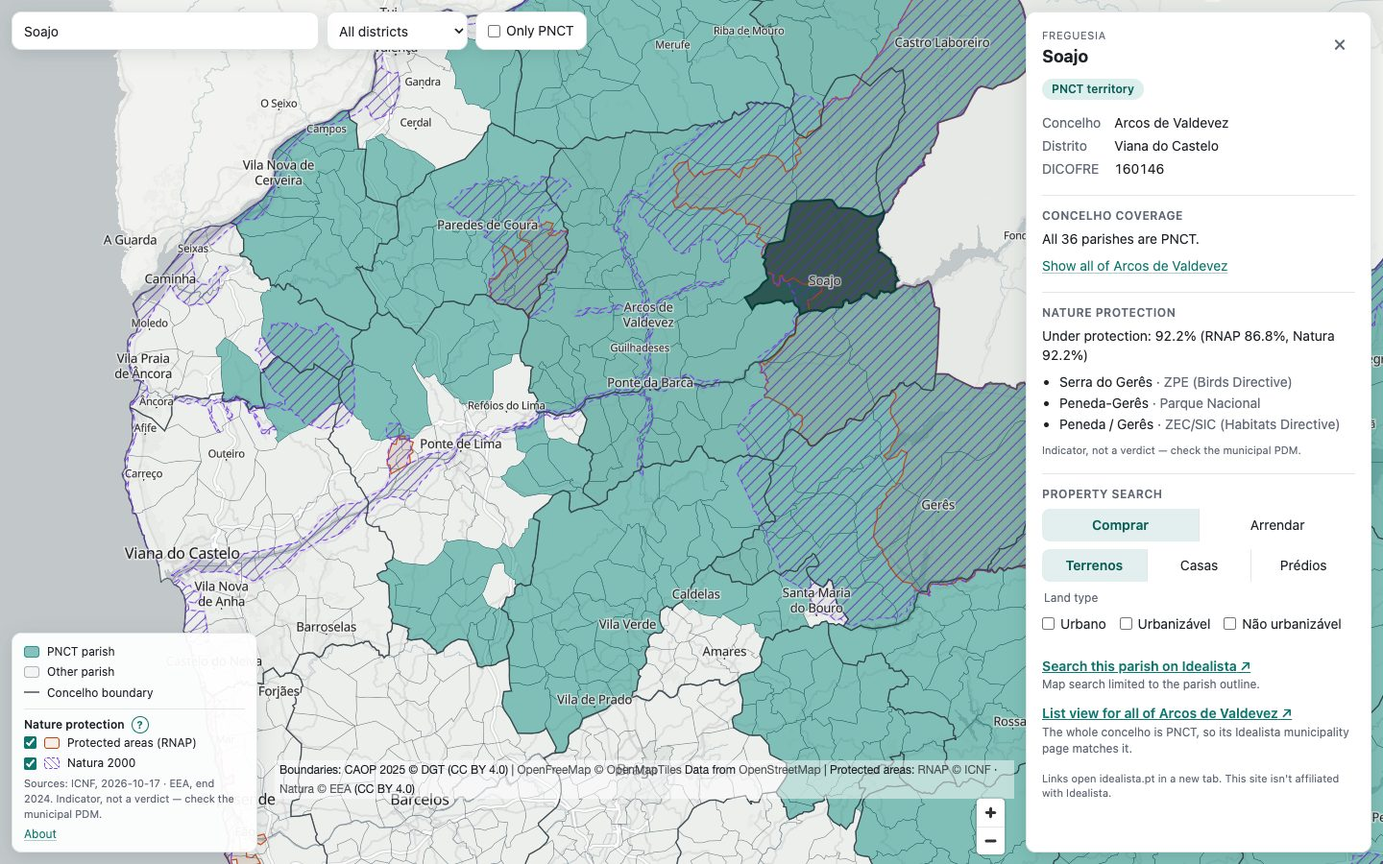
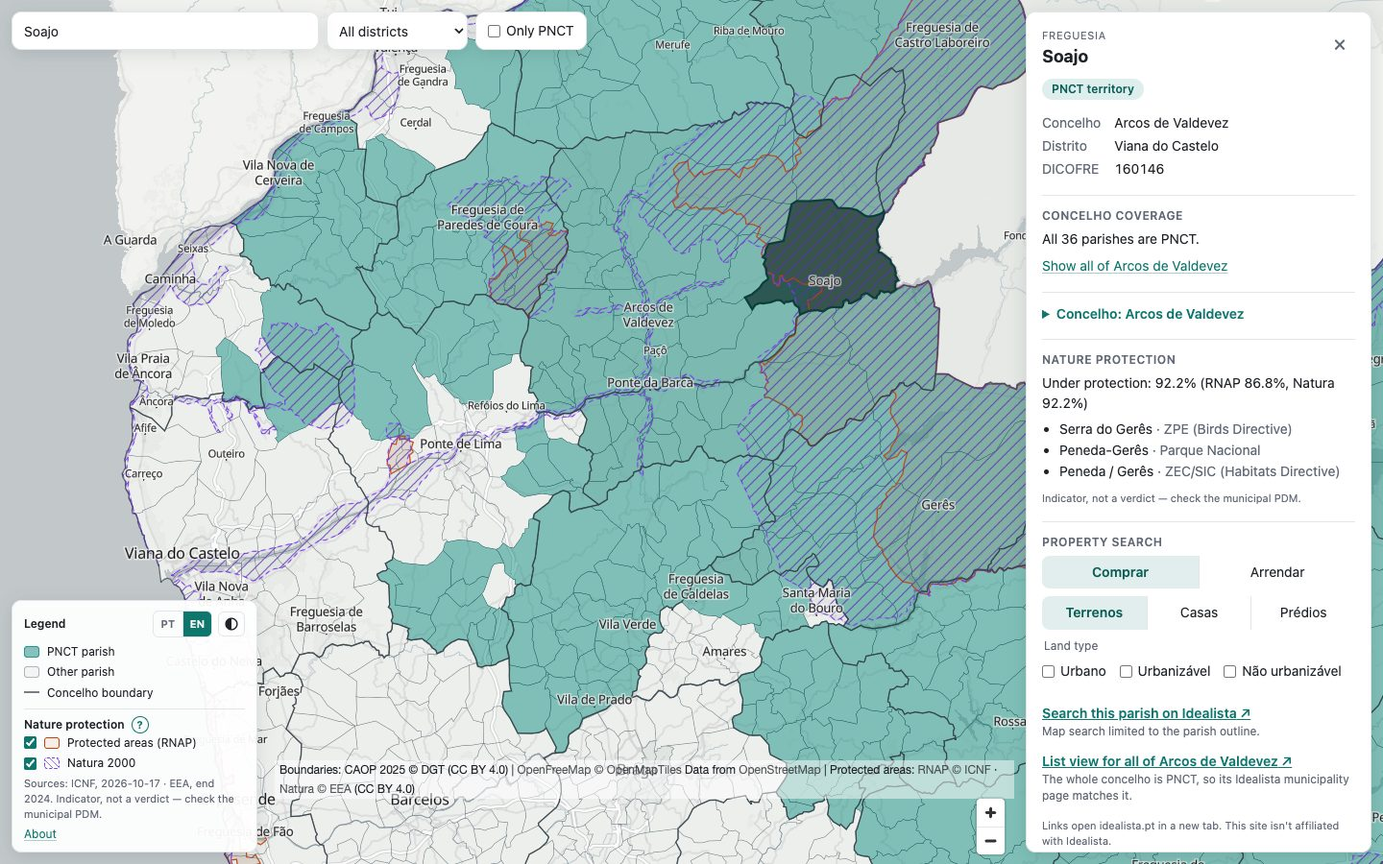
docs: conventions from 0.5.0–0.6.0, i18n glossary, README and attribution refresh
CLAUDE.md gains the UI-text, boot-script hash, iOS Safari, contacts and
no-invented-values rules and an up-to-date layout. The 0.6.0 glossary moves to
docs/i18n-glossary.md. README covers the concelho card and its make targets,
with a regenerated screenshot. data/ATTRIBUTION.md matches where credits appear.

diff --git a/README.md b/README.md
@@ -14,12 +14,13 @@ Features:
   - A district filter.
   - **Only PNCT** (focus mode): it hides everything outside PNCT territory, and those parishes don't respond to hover, clicks or search.
 - **Idealista links:** for each PNCT parish, a polygon search link, with a selector for buying or renting, property type and land filters. When the whole concelho is PNCT, the municipality page is linked too.
+- **Concelho card:** every concelho panel shows its population (INE 2025 estimate, the Census 2011→2021 change, density, the ageing ratio) and, for the 185 PNCT concelhos, the câmara's website, mailbox, phone, urbanism page and PDM link. Parish panels have the same card in a collapsed section. A missing value shows "—" with a note, never an estimate.
 - **Nature protection:** RNAP (ICNF) and Natura 2000 (EEA) overlays, faded in once zoomed past the country view, and the share of each parish or concelho under protection in its panel. A "?" next to the legend heading explains what protection means for buying land.
 - **Português / English:** a PT | EN toggle in the legend header switches every UI string in place, and the basemap labels where OpenStreetMap has a name in that language. Parish and concelho names stay as they are. On first visit the language follows `?lang=`, then the saved choice, then the browser languages (any `pt*` → PT), then English.
 - **Light, dark or automatic theme:** a theme button next to the language toggle cycles Auto (follows the system, live) → Light → Dark. The page and the basemap start in the chosen theme, with no flash.
 - **Shareable views:** the map view, the selection, the filters and the selector all live in the URL (see [URL parameters](#url-parameters)).
 
-![Peneda-Gerês with the protected-areas overlays on: PNCT parishes shaded, the RNAP outline and the Natura 2000 hatch, and the Soajo parish panel with its share under protection](docs/screenshots/desktop-protected.jpg)
+![Peneda-Gerês with the protected-areas overlays on: PNCT parishes shaded, the RNAP outline and the Natura 2000 hatch, the Soajo parish panel with its share under protection, and the PT | EN and theme controls in the legend header](docs/screenshots/desktop-protected.jpg)
 
 The screenshot is generated with `npm run shots:readme` (in `web/`, with `npm run preview` running).
 
@@ -63,7 +64,7 @@ Only needed to rebuild the data from the sources.
 
 ```sh
 uv sync
-uv run make all      # download (checksum-verified) → parse → match → geo → topo → shapes → outline → protected → pytest
+uv run make all      # download (checksum-verified) → parse → match → geo → topo → shapes → outline → protected → concelhos → pytest
 ```
 
 `make download` fetches two sources. Each download is checked against a SHA-256 before it is kept:
@@ -76,6 +77,8 @@ Git ignores both downloads. `make all` runs the download as a dependency, so you
 The protected-areas step also downloads, once, into `data/external/protected/` (gitignored):
 - the ICNF RNAP layer, paged from the ArcGIS service (~7 MB);
 - the EEA Natura 2000 end-2024 GeoPackage (1.36 GB, EU-wide, SHA-256 pinned).
+
+The concelho step fetches the INE indicators once into `data/external/ine/` (gitignored). `make concelhos-fetch` re-fetches them (`REFRESH=1` replaces the cache, e.g. for next year's estimates). The câmara contacts are curated by hand in `data/contacts/camaras.csv`; `make concelhos` stops on a row that fails `scripts/validate_contacts.py`.
 
 `make protected-fetch` re-fetches them on demand (`REFRESH=1` downloads the GeoPackage again); `cd web && npm run data:protected` does the same plus the rebuild. Which source feeds which category is set in `scripts/protected_config.py`. See [data/ATTRIBUTION.md](data/ATTRIBUTION.md).
 
@@ -90,16 +93,19 @@ The protected-areas step also downloads, once, into `data/external/protected/` (
 | `make outline` | `scripts/build_outline.py` → `web/data/outline.json` (the camera outline) |
 | `make protected-fetch` | `scripts/fetch_protected.py` → `data/external/protected/<source>/` plus `fetch.json` (source URL, licence, fetch time) |
 | `make protected` | `scripts/build_protected.py` → `web/data/protected.topo.json` (display overlay), `web/data/protection.json` (shares per DICOFRE/DICO), `web/data/protected.meta.json` (categories, bundled), `data/processed/protected_sites.csv` |
-| `make test` | `pytest` (`tests/test_pipeline.py`, `tests/test_shapes.py`, `tests/test_outline.py`, `tests/test_protected.py`, `tests/test_fetch_protected.py`) |
+| `make concelhos-fetch` | `scripts/fetch_ine.py` → `data/external/ine/` plus `fetch.json` (INE population estimates, ageing index, Censuses 2011/2021) |
+| `make concelhos` | `scripts/build_concelhos.py` → `data/concelhos.json` (with the curators' notes) and `web/data/concelhos.json` (population and contacts per DICO, loaded on the first concelho card) |
+| `make test` | `pytest` (`tests/test_pipeline.py`, `tests/test_shapes.py`, `tests/test_outline.py`, `tests/test_protected.py`, `tests/test_fetch_protected.py`, `tests/test_concelhos.py`) |
 | `make web` | `npm ci && npm test && npm run build` in `web/` → static `web/dist/` |
-| `make e2e` | `npm ci`, builds, then runs the Playwright smoke tests (`web/tests/e2e`). Screenshots go to `web/test-results/screenshots/` (ignored by git) |
+| `make e2e` | `npm ci`, builds, then runs the Playwright e2e suite (`web/tests/e2e`). Screenshots go to `web/test-results/screenshots/` (ignored by git) |
 | `make clean` | Removes `data/interim`, `data/processed` and `web/data` |
 
 mapshaper runs through `npx` at a pinned version (`mapshaper@0.7.68`), with its npm cache in `./.npm-cache`.
 
 Committed outputs:
 
-- `web/data/*.json` (`pnct.topo.json`, `shapes.json`, `outline.json`, `protected.topo.json`, `protection.json`, `protected.meta.json`)
+- `web/data/*.json` (`pnct.topo.json`, `shapes.json`, `outline.json`, `protected.topo.json`, `protection.json`, `protected.meta.json`, `concelhos.json`)
+- `data/concelhos.json` and `data/contacts/camaras.csv`
 - `data/interim/pnct_raw.csv`
 - `data/processed/*.csv` (`pnct_parishes.csv`, `unmatched.csv`, `shapes_quality.csv`, `protected_sites.csv`)
 
@@ -115,9 +121,9 @@ Not committed (ignored, rebuilt by `make`):
 
 | Command | What it runs |
 |---|---|
-| `uv run pytest -q` | Pipeline and shape tests in `tests/`. They read `data/processed/*.geojson`, so on a fresh clone run `uv run make all` first. |
-| `cd web && npm test` | Vitest: the polyline codec, the shapes, and the link snapshot. |
-| `cd web && npm run test:e2e` | Builds, then runs the Playwright smoke tests against a local preview server on port 4173. |
+| `uv run pytest -q` | Pipeline, shape, protected-area and concelho-data tests in `tests/`. They read `data/processed/*.geojson`, so on a fresh clone run `uv run make all` first. |
+| `cd web && npm test` | Vitest: the polyline codec, the shapes, the link snapshot, camera, layers and theme, the concelho card, PT/EN key parity and the UI-text guard. |
+| `cd web && npm run test:e2e` | Builds, then runs the Playwright e2e suite (both languages, both themes, desktop and 375 px phone with emulated iPhone insets) against a local preview server on port 4173. |
 | `cd web && npm run test:all` | pytest, Vitest and e2e, in that order. |
 | `cd web && E2E_BASE_URL=https://pnct.singledev.eu/ npm run test:e2e:remote` | The e2e suite against a deployed site. |
 
@@ -140,11 +146,12 @@ Live at https://pnct.singledev.eu (Pages project `pnct-map`, production branch `
 
 ## Data and attribution
 
-This text matches the About panel on the site.
+This text matches the About panel on the site, plus the concelho card's own source lines.
 
 - **PNCT territories:** the official list dated 4 February 2026, published by IEFP: https://www.iefp.pt/documents/10181/4287418/Territorios+PNCT_04-02-2026.pdf
 - **Boundaries:** CAOP 2025 © Direção-Geral do Território, [CC BY 4.0](https://creativecommons.org/licenses/by/4.0/). "Informação geográfica cedida pela Direção-Geral do Território." Simplified for the web. Landing page: https://www.dgterritorio.gov.pt/cartografia/cartografia-tematica/caop
 - **Basemap:** [OpenFreeMap](https://openfreemap.org), © OpenMapTiles, © OpenStreetMap contributors (ODbL).
+- **Population (concelho card):** INE, population estimates 2025 and Censuses 2011/2021, [CC BY 4.0](https://creativecommons.org/licenses/by/4.0/). Câmara contacts are from each câmara's website. Both are credited in the card itself.
 - **Protected areas:** RNAP © ICNF (reuse terms not confirmed yet), fetched 2026-10-17; Natura 2000 end-2024 © EEA, [CC BY 4.0](https://creativecommons.org/licenses/by/4.0/). The overlay and the "under protection" shares are an indicator, not a verdict: check the municipal PDM. Details and licence status: [data/ATTRIBUTION.md](data/ATTRIBUTION.md).
 - **Unofficial tool.** Always confirm eligibility with the official sources. This project is not affiliated with Idealista.
 
@@ -164,6 +171,9 @@ The code is under the MIT licence (see `LICENSE`). The data keeps its own licenc
 - `docs/ROADMAP.md`: what's done, what's next, the backlog, past decisions and open items.
 - `CHANGELOG.md`: releases.
 - `CLAUDE.md`: starting context for Claude Code sessions (commands, invariants, conventions).
+- `docs/i18n-glossary.md`: the EN → PT terms and the European-Portuguese conventions for UI text.
+- `data/ATTRIBUTION.md`: every data source with its licence status.
+- `docs/reports/`: one report per task. The list below covers the early ones; [docs/ROADMAP.md](docs/ROADMAP.md) links every report since.
 
 - `docs/reports/phase1-pipeline.md`: the data pipeline, and why CAOP 2025 was chosen over 2024.
 - `docs/reports/phase2-map.md`: the map UI, with test results.
@@ -253,7 +263,11 @@ npm run test:e2e                   # build + Playwright e2e tests
 ```
 
 - **Base path:** the default is `/` (the site is served from the domain root). Set `BASE_PATH` for a sub-path build.
-- **Static data:** the app reads only `web/data/pnct.topo.json`, `web/data/shapes.json` (loaded when the first PNCT panel opens) and the OpenFreeMap "positron" basemap. There is no backend. Vite content-hashes both data files into `/assets/`.
+- **Static data:** there is no backend. The app reads `web/data/`, which Vite content-hashes into `/assets/`:
+  - `pnct.topo.json` (preloaded) and `outline.json` / `protected.meta.json` (bundled);
+  - `shapes.json` (when the first PNCT panel opens), `protection.json` (the first panel), `protected.topo.json` (the first overlay toggle) and `concelhos.json` (the first concelho card).
+
+  The basemap is OpenFreeMap "positron" (light) or "dark".
 - **Shareable state:** the URL hash holds the view; see [URL parameters](#url-parameters).
 - **Property search:**
   - `src/links.ts` `getLinks(parish, concelho, options)` lazy-loads `data/shapes.json` on first use and caches it.
@@ -261,7 +275,7 @@ npm run test:e2e                   # build + Playwright e2e tests
   - The selector (Comprar/Arrendar, Terrenos/Casas/Prédios, land filters) persists in the hash (`op`, `t`, `land`) and in localStorage.
   - Unit tests: `npm test` (Vitest).
 
-- **Language and theme:** every UI string is in `src/strings.en.ts` and `src/strings.pt.ts` (same `Strings` type, so a missing key doesn't compile); `index.html` has no text of its own, only `data-i18n` keys. `src/ui-text.guard.test.ts` fails on UI-looking literals elsewhere. The theme choice (`pnct-map:theme`) is applied by an inline boot script in `index.html` before the CSS; its SHA-256 is in the CSP in `public/_headers` (checked by `src/i18n.test.ts`), so **editing the boot script means updating that hash**.
+- **Language and theme:** PT wording follows [docs/i18n-glossary.md](docs/i18n-glossary.md). Every UI string is in `src/strings.en.ts` and `src/strings.pt.ts` (same `Strings` type, so a missing key doesn't compile); `index.html` has no text of its own, only `data-i18n` keys. `src/ui-text.guard.test.ts` fails on UI-looking literals elsewhere. The theme choice (`pnct-map:theme`) is applied by an inline boot script in `index.html` before the CSS; its SHA-256 is in the CSP in `public/_headers` (checked by `src/i18n.test.ts`), so **editing the boot script means updating that hash**.
 
 #### URL parameters
 

diff --git a/CLAUDE.md b/CLAUDE.md
@@ -8,11 +8,17 @@ Unofficial map of the mainland Portugal parishes covered by the PNCT (Programa N
 ## Stack and layout
 
 - **Data pipeline:** Python 3.12 (uv), geopandas/pyogrio/shapely, and mapshaper via `npx` (pinned 0.7.68).
-- **Web app:** Vite + TypeScript + MapLibre GL JS. It's a static site with no backend; the basemap is OpenFreeMap "positron".
-- `data/`: pipeline inputs and outputs. The downloads (`data/external/`, `data/raw/*.pdf`) and large intermediates (`data/processed/*.geojson`) are gitignored.
-- `scripts/`: pipeline steps (`parse_pdf` → `build_parishes` → `build_geo` → `build_topo`, plus `build_shapes`, `build_outline` and the protected areas: `protected_config` → `fetch_protected` → `build_protected`) and `polyline.py`.
-- `tests/`: pytest for the pipeline and shapes.
-- `web/data/`: `pnct.topo.json` (display geometry), `shapes.json` (Idealista link shapes), `outline.json` (the camera outline, bundled), and the protected areas: `protected.topo.json` (overlay, lazy), `protection.json` (shares per DICOFRE/DICO, lazy) and `protected.meta.json` (categories, bundled). Committed, built by the pipeline.
+- **Web app:** Vite + TypeScript + MapLibre GL JS. It's a static site with no backend. The basemap is OpenFreeMap "positron" (light) or "dark" (Dark Matter), with labels in the UI language. The UI is in English and European Portuguese.
+- `data/`: pipeline inputs and outputs. The downloads (`data/external/`, `data/raw/*.pdf`) and large intermediates (`data/processed/*.geojson`) are gitignored. `data/contacts/camaras.csv`: the hand-curated câmara contacts.
+- `scripts/`: pipeline steps and `polyline.py`:
+  - parishes: `parse_pdf` → `build_parishes` → `build_geo` → `build_topo`, plus `build_shapes` and `build_outline`;
+  - protected areas: `protected_config` → `fetch_protected` → `build_protected`;
+  - concelho card: `concelhos_config` → `fetch_ine` → `build_concelhos`, plus `contacts_candidates` and `validate_contacts`.
+- `tests/`: pytest for the pipeline, shapes, outline, protected areas and concelho data.
+- `web/data/`: committed, built by the pipeline.
+  - `pnct.topo.json` (display geometry), `shapes.json` (Idealista link shapes), `outline.json` (the camera outline, bundled).
+  - Protected areas: `protected.topo.json` (overlay, lazy), `protection.json` (shares per DICOFRE/DICO, lazy) and `protected.meta.json` (categories with EN and PT labels, bundled).
+  - `concelhos.json` (population and contacts, lazy).
 - `web/src/`:
   - `main.ts`: app wiring, selection, focus mode, hash.
   - `layers.ts`: MapLibre layers and filters.
@@ -21,20 +27,24 @@ Unofficial map of the mainland Portugal parishes covered by the PNCT (Programa N
   - `theme.ts`: the Auto/Light/Dark choice (Auto follows `prefers-color-scheme`), basemap style URLs and the map palette (mirrored by the `--map-*` CSS tokens).
   - `protected.ts`: protected-areas data and credits.
   - `strings.ts` (types, live bindings, formatters) with `strings.en.ts` / `strings.pt.ts`: every UI string. `i18n.ts`: language detection, `?lang=`, `data-i18n`. `controls.ts`: PT | EN toggle and theme button. `about.ts`: the About dialog.
-  - `panel.ts`, `search.ts`, `hash.ts`, `prefs.ts`.
+  - `concelho.ts`: the concelho card. `panel.ts`, `sheet.ts` (phone bottom sheet), `legend.ts` (legend, overlay toggles, explainer), `search.ts`, `hash.ts`, `prefs.ts`.
+  - `camera.ts`: camera limits and the mainland outline. `basemap.ts`: the basemap style patches (Latin-only fallback, label language, shield filters, dark labels).
 - `web/tests/e2e/`: Playwright specs. Shared waits are in `helpers.ts`.
 - `web/scripts/`:
   - `perf.mjs`: throttled load timing; `--toggles N` times the focus toggle.
-  - `shots.mjs`, `og_image.mjs`: screenshots and the share image. `theme_shots.mjs`, `protected_shots.mjs`: light/dark review shots, desktop and phone.
+  - `shots.mjs`, `og_image.mjs`: screenshots and the share image. `readme_shot.mjs` (`npm run shots:readme`): the README screenshot.
+  - Review shots: `theme_shots.mjs`, `protected_shots.mjs`, `concelho_shots.mjs`, `i18n_shots.mjs` (PT/EN × light/dark), `phone_safe_area_shots.mjs` (iPhone insets, before/after). `settled.mjs` is their shared wait.
   - `e2e-flaky-report.mjs`: the flaky-test warning.
 - `web/public/`: `_headers` (caching, CSP, security headers), icons, OG image, robots.txt, sitemap.xml.
-- `docs/`: `ROADMAP.md`, `reports/<task>.md` (one per task), screenshots and perf data.
+- `docs/`: `ROADMAP.md`, `i18n-glossary.md` (EN → PT terms), `reports/<task>.md` (one per task), screenshots and perf data.
 
 ## Commands
 
 ```sh
 uv sync && uv run make all            # pipeline: downloads CAOP 2025 + the IEFP PNCT PDF (SHA-256 checked), rebuilds data, runs pytest
 uv run make protected-fetch           # re-fetch RNAP (ICNF) and Natura 2000 (EEA, 1.36 GB once) into data/external/protected/
+uv run make concelhos-fetch           # re-fetch the INE indicators into data/external/ine/ (REFRESH=1 for a new year)
+uv run make concelhos                 # rebuild data/concelhos.json and web/data/concelhos.json (validates camaras.csv)
 cd web && npm ci && npm run dev       # dev server (data is committed; the pipeline is not needed)
 PLAYWRIGHT_BROWSERS_PATH=0 npx playwright install chromium   # once, for e2e
 
@@ -63,13 +73,29 @@ cd web && npm run deploy              # same, to production (main). Only after t
 - **Attribution:** it must stay complete wherever it's shown: CAOP 2025 © DGT (CC BY 4.0), OpenFreeMap, © OpenMapTiles, © OpenStreetMap contributors, and the protected-area sources (ICNF RNAP, EEA Natura 2000; generated from `protected.meta.json`), with links. That covers the map control, the bottom-sheet credit and the About panel. Licence status: `data/ATTRIBUTION.md`.
 - **Protected-area sources:** fetched offline only, never from the browser. `scripts/protected_config.py` is the single switch per category. Shares are computed on unsimplified CAOP and site geometry in EPSG:3763.
 - **Parish layer readiness:** the app adds the parish layers on `style.load`, not `load`. `data-parishes-loaded` marks the first parish frame and `data-ready` the first full idle. `window.pnctMap` exposes the map for tests.
-- **UI text:** only in `strings.en.ts` / `strings.pt.ts` (same keys; `ui-text.guard.test.ts` checks the rest). `index.html` uses `data-i18n` keys. Data-derived labels carry both languages in their meta.
-- **Theme boot script:** the inline `<script>` in `index.html` is allowed by its SHA-256 in `public/_headers`; change one, update the other (`i18n.test.ts` checks).
+- **UI text:**
+  - It lives only in `web/src/strings.en.ts` and `strings.pt.ts`. They share the `Strings` type, so a missing key doesn't compile, and `ui-text.guard.test.ts` flags literals elsewhere.
+  - `index.html` holds `data-i18n` keys, not text. Data-derived labels carry both languages in their data meta (e.g. `protected.meta.json` `pt`).
+  - PT is European Portuguese (AO 1990). Check new terms against [docs/i18n-glossary.md](docs/i18n-glossary.md) and add them there.
+  - Place names are never translated.
+- **Theme boot script:** the inline `<script>` in `<head>` of `index.html` is allowed by its SHA-256 in the CSP in `web/public/_headers`. Any edit to the script requires updating the hash; `i18n.test.ts` fails otherwise.
+- **Phone / iOS Safari:**
+  - Text inputs and selects stay at ≥ 16 px on phones and touch screens; Safari zooms into smaller ones on focus.
+  - Bottom-pinned UI uses `env(safe-area-inset-bottom)`.
+  - Full-height layouts use `dvh` with `vh` fallbacks.
+  - Never use `maximum-scale` or `user-scalable` in the viewport meta: pinch zoom must work.
+  - `mobile-safari.spec.ts` checks the first two with emulated insets.
+- **Concelho contacts:**
+  - They live in `data/contacts/camaras.csv`, with `pdm_status` `in_force` or `unclear`.
+  - Verify every PDM link against the live site (or the Diário da República notice) before marking it.
+  - Generic institutional contacts only (geral@, the switchboard), no personal data.
+  - Check the CSV with `scripts/validate_contacts.py` (`--online` re-checks the URLs).
+- **No invented values:** data shown in the UI is never estimated or filled in. A missing value shows "—" with a note ("not available" / "não disponível").
 - **e2e waits:** wait for the parish layer (`waitForParishes` / `waitForParishView`), not the basemap. Use `waitForFullIdle` only before screenshots. No `waitForTimeout`.
 
 ## Working conventions
 
-- **Branches:** one branch per task (`feature/…`, `fix/…`, `docs/…`). Fast-forward it into `main` only after the full suite passes, then push.
+- **Branches:** one branch per task (`feat/…`, `fix/…`, `docs/…`). Fast-forward it into `main` only after the full suite passes, then push.
 - **Deploys:** preview first (`npm run deploy:preview`). Production (`npm run deploy`) only after the user confirms, usually after checking on their phone.
 - **Reports:** each task ends with a report in `docs/reports/<task>.md`. The final report is copied to the clipboard with `pbcopy`, and the copy is verified.
 - **Delegation:** bounded sub-tasks may be delegated to kiro-cli (`kiro-cli chat --no-interactive --trust-tools=fs_read,fs_write,execute_bash --model claude-sonnet-5.5`), with a spec and a file allowlist. Review its diff before accepting it. Specs and logs go to the gitignored `.kiro-logs/`.

diff --git a/docs/i18n-glossary.md b/docs/i18n-glossary.md
@@ -1,0 +1,78 @@
+# PT/EN glossary
+
+The reference for UI wording in `web/src/strings.en.ts` and `web/src/strings.pt.ts`. It was agreed during the 0.6.0 review ([report](reports/0.6.0-i18n-theme.md), [review](reports/0.6.0-i18n-theme-review.md)). Check new terms against it, and add a row when a new domain term appears.
+
+## Rules
+
+- **European Portuguese, AO 1990 spelling** ("atividades", "projetos", "Diretiva", "desatualizada"). Never Brazilian Portuguese.
+- **Place names are never translated.** Parish, concelho and district names come from CAOP as they are. Basemap labels show OpenStreetMap's own `name:pt` / `name:en`.
+- **Official terms win over plain ones:** concelho, freguesia, Câmara Municipal, PDM em vigor, RNAP, Rede Natura 2000, índice de envelhecimento, Censos. PNCT stays as is.
+- **Tone:** plain, polite and impersonal, addressing the reader with the third-person "você" form implied by the verb ("Confirme…", "Tente novamente", "Aumente o zoom"), never "tu". Keep sentences short; the phone legend is narrow, and Portuguese runs ~20–30% longer than English.
+- **No "de + place name" in sentences:** say "do concelho" and leave the name in the panel title ("Nenhuma freguesia do concelho é PNCT"), so "de Porto" / "do Porto" contractions can't go wrong.
+- **Hedges:** data is "apenas indicativo", never a verdict, and the PDM do município decides.
+- **Numbers and dates** use `Intl` in the active locale: "8 360", "4,2", "12,3%", "outubro de 2026". Never format them by hand.
+
+### European vs Brazilian choices
+
+| Use (PT-PT) | Not (PT-BR) | Where |
+|---|---|---|
+| ligação / ligações | link, conexão | property links; "Verifique a ligação" (network) |
+| separador | aba | "abre num novo separador" |
+| Contactos | Contatos | câmara contacts |
+| A carregar… | Carregando… | every loading state |
+| ecrã, telemóvel, transferir, registo | tela, celular, baixar, registro | not in the UI yet; use these if needed |
+| na mesma; Em regra | mesmo assim; Em geral | explainer |
+| corresponde-lhe (enclisis) | lhe corresponde | link descriptions |
+| Site | Sítio | kept: the usual word in Portugal |
+
+### Kept in Portuguese in the English UI too
+
+- Idealista's own search terms: Comprar/Arrendar, Terrenos/Casas/Prédios, Urbano/Urbanizável/Não urbanizável.
+- Administrative terms: "Freguesia" and "Concelho" (panel kickers, search tags), "Distrito", "Câmara Municipal", PDM, PIP (*Pedido de Informação Prévia*), *artigo urbano*, *urbano*/*rústico*, REN/RAN.
+- ICNF's RNAP designations ("Parque Natural", "Reserva Natural", …), as in the data.
+
+## Terms
+
+| EN | PT |
+|---|---|
+| parish | freguesia |
+| concelho / municipality | concelho (Idealista's page: "município") |
+| district | distrito |
+| Câmara Municipal | Câmara Municipal (in sentences: "a câmara") |
+| PNCT territory (badge) | Território PNCT |
+| Not PNCT | Fora do PNCT |
+| Only PNCT (filter) | Só PNCT |
+| Whole concelho PNCT / Partly PNCT | Concelho inteiro no PNCT / Parcialmente no PNCT |
+| Concelho boundary | Limite de concelho |
+| Legend | Legenda |
+| Concelho coverage / PNCT coverage | Cobertura do concelho / Cobertura PNCT |
+| Property search | Pesquisa de imóveis |
+| Property type / Land type / Operation | Tipo de imóvel / Tipo de terreno / Operação |
+| Search this parish on Idealista | Pesquisar esta freguesia no Idealista |
+| link(s) | ligação / ligações |
+| opens in a new tab | abre num novo separador |
+| Nature protection | Proteção da natureza |
+| Protected areas (RNAP) | Áreas protegidas (RNAP) |
+| Natura 2000 (toggle) | Rede Natura 2000 |
+| Under protection: X% | Sob proteção: X% |
+| Indicator, not a verdict — check the municipal PDM. | Apenas indicativo — confirme no PDM do município. |
+| Zoom in to see protected areas | Aumente o zoom para ver as áreas protegidas |
+| Birds / Habitats Directive | Diretiva Aves / Diretiva Habitats |
+| Population | População |
+| N people (2025) | N habitantes (2025) |
+| people/km² | hab./km² |
+| ageing index | índice de envelhecimento |
+| X older people (65+) per child | X idosos (65+) por jovem (0–14) |
+| Censuses | Censos |
+| PDM in force / PDM documents | PDM em vigor / Documentos do PDM |
+| Urbanism | Urbanismo |
+| Website | Site |
+| Report outdated info | Comunicar informação desatualizada |
+| Official PDM maps: SNIT (DGT) | Plantas oficiais do PDM: SNIT (DGT) |
+| Boundaries / Basemap | Limites / Mapa de base |
+| © OpenStreetMap contributors | © contribuidores do OpenStreetMap (OSM's own PT wording) |
+| reuse terms not confirmed | condições de reutilização não confirmadas |
+| not available (missing value) | não disponível (shown after "—") |
+| Theme: Auto (system) / Light / Dark | Tema: automático (sistema) / claro / escuro |
+| Language | Idioma |
+| Expand / Collapse panel | Expandir / Recolher painel |

diff --git a/docs/reports/0.6.0-i18n-theme.md b/docs/reports/0.6.0-i18n-theme.md
@@ -79,48 +79,7 @@ All 32 shots (`npm run preview`, then `node scripts/i18n_shots.mjs <dir>`) are i
 
 ## Glossary (EN → PT) for review
 
-| # | EN | PT |
-|---|---|---|
-| 1 | parish | freguesia |
-| 2 | concelho / municipality | concelho (Idealista's page: "município") |
-| 3 | district | distrito |
-| 4 | Câmara Municipal | Câmara Municipal (in sentences: "a câmara") |
-| 5 | PNCT territory (badge) | Território PNCT |
-| 6 | Not PNCT | Fora do PNCT |
-| 7 | Only PNCT (filter) | Só PNCT |
-| 8 | Whole concelho PNCT / Partly PNCT | Concelho inteiro no PNCT / Parcialmente no PNCT |
-| 9 | Concelho boundary | Limite de concelho |
-| 10 | Legend | Legenda |
-| 11 | Concelho coverage / PNCT coverage | Cobertura do concelho / Cobertura PNCT |
-| 12 | Property search | Pesquisa de imóveis |
-| 13 | Property type / Land type / Operation | Tipo de imóvel / Tipo de terreno / Operação |
-| 14 | Search this parish on Idealista | Pesquisar esta freguesia no Idealista |
-| 15 | link(s) | ligação / ligações |
-| 16 | opens in a new tab | abre num novo separador |
-| 17 | Nature protection | Proteção da natureza |
-| 18 | Protected areas (RNAP) | Áreas protegidas (RNAP) |
-| 19 | Natura 2000 (toggle) | Rede Natura 2000 |
-| 20 | Under protection: X% | Sob proteção: X% |
-| 21 | Indicator, not a verdict — check the municipal PDM. | Apenas indicativo — confirme no PDM do município. *(review)* |
-| 22 | Zoom in to see protected areas | Aumente o zoom para ver as áreas protegidas *(review)* |
-| 23 | Birds / Habitats Directive | Diretiva Aves / Diretiva Habitats |
-| 24 | Population | População |
-| 25 | N people (2025) | N habitantes (2025) |
-| 26 | people/km² | hab./km² |
-| 27 | ageing index | índice de envelhecimento |
-| 28 | X older people (65+) per child | X idosos (65+) por jovem (0–14) *(review)* |
-| 29 | Censuses | Censos |
-| 30 | PDM in force / PDM documents | PDM em vigor / Documentos do PDM |
-| 31 | Urbanism | Urbanismo |
-| 32 | Website | Site |
-| 33 | Report outdated info | Comunicar informação desatualizada |
-| 34 | Official PDM maps: SNIT (DGT) | Plantas oficiais do PDM: SNIT (DGT) |
-| 35 | Boundaries / Basemap | Limites / Mapa de base |
-| 36 | © OpenStreetMap contributors | © contribuidores do OpenStreetMap *(review: OSM's own PT wording)* |
-| 37 | reuse terms not confirmed | condições de reutilização não confirmadas |
-| 38 | Theme: Auto (system) / Light / Dark | Tema: automático (sistema) / claro / escuro |
-| 39 | Language | Idioma |
-| 40 | Expand / Collapse panel | Expandir / Recolher painel |
+Moved to [docs/i18n-glossary.md](../i18n-glossary.md) after the release. It holds the agreed terms (including the review changes) and the EP-vs-BR choices.
 
 ### Strings I'm unsure about
 

diff --git a/data/ATTRIBUTION.md b/data/ATTRIBUTION.md
@@ -1,6 +1,6 @@
 # Data attribution and licence status
 
-Sources behind the committed data in `web/data/` and `data/processed/`. The site credits the same sources in the map attribution, the phone bottom-sheet credit and the About panel.
+Sources behind the committed data in `web/data/` and `data/processed/`. The site credits the boundaries, the basemap and the protected areas in the map attribution, the phone bottom-sheet credit and the About panel. The concelho card credits INE and the câmara websites in its own source lines. Every credit is shown in English or Portuguese with the UI language.
 
 | Data | Provider | Edition | URL | Licence | Status |
 |---|---|---|---|---|---|
@@ -18,6 +18,7 @@ Sources behind the committed data in `web/data/` and `data/processed/`. The site
 
 - `natura-icnf` (ICNF `BDG/RN2000`, layers ZPE and SIC) is ready as a drop-in alternative to `natura-eea`, under the same unconfirmed ICNF terms as RNAP.
 - Each fetch records the source URL, licence and UTC fetch time in `data/external/protected/<source>/fetch.json` (not committed). The build copies these into the per-field `meta` of `web/data/protection.json` and into `web/data/protected.meta.json`.
+- `protected.meta.json` also carries each category's Portuguese display labels (source title, "as of", licence, Natura designations), from `PtLabels` in `protected_config.py`.
 - The EEA GeoPackage (1.36 GB, EU-wide) is pinned by SHA-256 `fc947b01…964f42` in `protected_config.py`. The ICNF service is live and has no version, so its "as of" date is the fetch date.
 
 ## Concelho card: population and contacts
@@ -25,5 +26,5 @@ Sources behind the committed data in `web/data/` and `data/processed/`. The site
 `scripts/concelhos_config.py` lists the INE indicators. `make concelhos-fetch` caches the raw responses and a `fetch.json` (URL, period, INE update date, fetch time) in the gitignored `data/external/ine/`; `make concelhos` builds `data/concelhos.json` and `web/data/concelhos.json`, with this meta per field.
 
 - The population change compares two Census counts (2011 and 2021), never an annual estimate with a Census: since 2021 the estimates are administrative-based and differ from the Census by up to ±20% per municipality in the same year.
-- The card's source line reads "INE, population estimates <year>, Censuses 2011/2021 · CC BY 4.0".
+- The card's source line reads "INE, population estimates <year>, Censuses 2011/2021 · CC BY 4.0" (PT: "Fonte: INE, estimativas da população <year>, Censos 2011/2021 · CC BY 4.0").
 

diff --git a/docs/reports/0.6.0-docs.md b/docs/reports/0.6.0-docs.md
@@ -1,0 +1,23 @@
+# Docs follow-up after 0.6.0
+
+2026-10-19. Docs only, on `main`: no version bump, tag or deploy.
+
+## Files changed
+
+- `CLAUDE.md`: new rules for UI text (strings files, EP AO 1990, glossary, no translated place names), the theme boot-script hash, phone/iOS Safari (≥ 16 px inputs, safe-area insets, dvh, no `maximum-scale` / `user-scalable`), concelho contacts (`camaras.csv`, `pdm_status`, verified PDM links, generic contacts) and "no invented values". Stale layout fixed: both basemaps, the PT/EN UI, the concelho pipeline and `concelhos.json`, missing modules and shot scripts, `make concelhos-fetch` / `concelhos`, and the branch prefix `feat/`.
+- `docs/i18n-glossary.md` (new): the 0.6.0 glossary (EN → PT, the review changes included), rules on tone, place names and numbers, the EP-vs-BR choices, and terms kept in Portuguese in the English UI.
+- `docs/reports/0.6.0-i18n-theme.md`: the glossary table is replaced by a link to the new file.
+- `README.md`: concelho-card feature bullet; `make concelhos-fetch` / `concelhos` targets, outputs and the INE download; `make all` / `make e2e` / test descriptions brought up to date; static-data list (all data files, both basemaps); INE and câmara attribution; links to the glossary and `data/ATTRIBUTION.md`; screenshot alt text.
+- `docs/screenshots/desktop-protected.jpg`: regenerated with `npm run shots:readme` (269 KB), now with the 0.6.0 legend header (PT | EN, theme).
+- `data/ATTRIBUTION.md`: contradicted the code. It said every source is credited in the map attribution, sheet and About; INE and the câmaras are credited in the concelho card. It now also says that credits follow the UI language, gives the PT card source line, and notes the PT labels in `protected.meta.json`.
+
+## Checked, no change needed
+
+- `docs/ROADMAP.md`: updated in the release commit. Its "Automatic dark theme" row is the dated 0.3.0 history.
+- `docs/caop_research.md`, `docs/link-samples.md`: research notes and generated samples; nothing contradicts the code.
+- There is no CONTRIBUTING or `.github` doc.
+- Every relative link in the edited files resolves.
+
+## Noticed, not changed (code, out of scope)
+
+- **About panel:** it doesn't credit INE. The concelho card does, in its own source line, so the README now says "About panel plus the concelho card's source lines". Adding INE to About would be a one-line `about.ts` change in a later release, if you want it there too.
